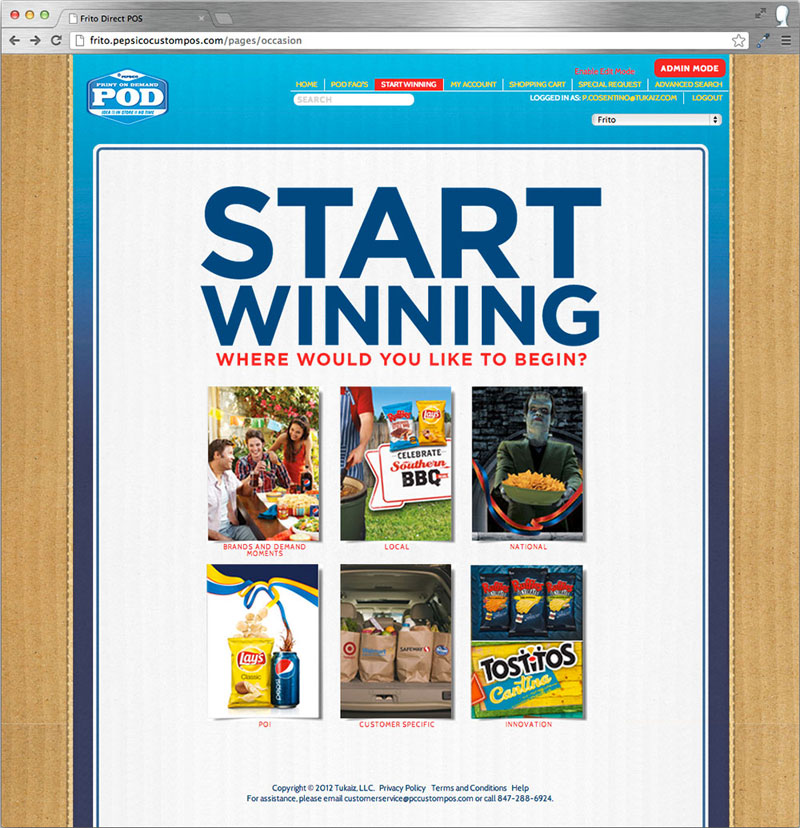
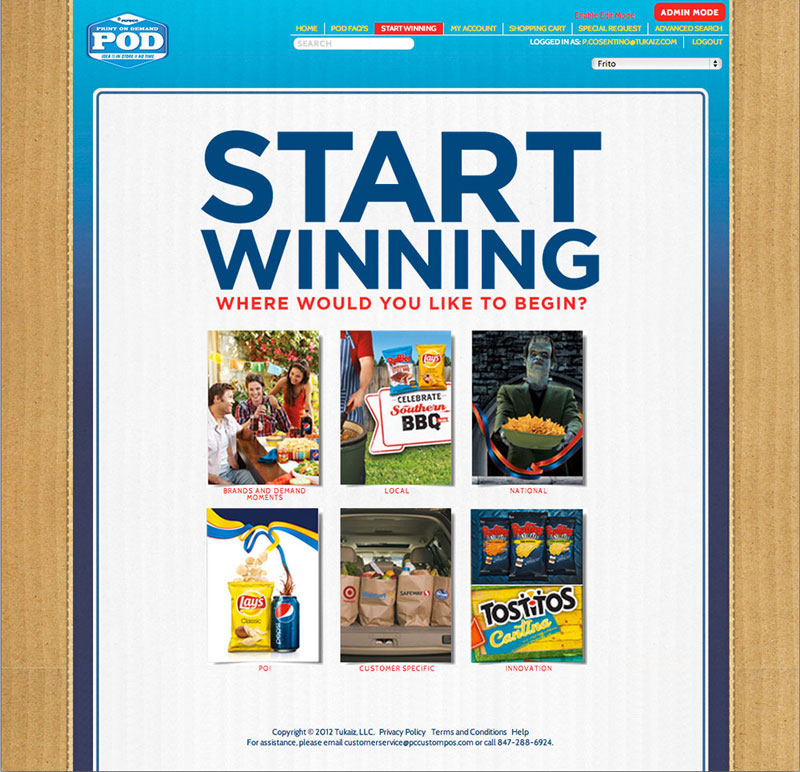
added wireframe section, added becker

diff --git a/app/assets/stylesheets/style.css b/app/assets/stylesheets/style.css
@@ -307,15 +307,15 @@ h6{
 	height:115px;
 	box-shadow:10px 10px 5px #888;
 	display:inline-block;
-	
+	border-radius: 20px;
 }
-.duck, .golf_putt, .uso, .wgn, .frito_speed, .asa, .frito, .tkml1, .touch, .kiss, .rocky, .nye, .tkml2, .tkml2, .tkml3, .tkml4, .xmascard, .bluenred, .whysoblue, .barscene{
+.duck, .golf_putt, .uso, .wgn, .frito_speed, .asa, .frito, .becker, .tkml1, .touch, .kiss, .rocky, .nye, .njoy, .tkml2, .tkml2, .tkml3, .tkml4, .xmascard, .bluenred, .whysoblue, .barscene{
 	display: inline-block;
 	border:none;
 	width:200px;
 	height: 115px;
 	background: url(../assets/work_sprite.jpg) 0 0px;
-	
+	border-radius: 20px;
 }
 .duck{
 	background: url(../assets/work_sprite.jpg) 0 -1955px;
@@ -335,6 +335,9 @@ h6{
 .frito{
 	background: url(../assets/work_sprite.jpg) 0 -115px;
 }
+.becker{
+	background: url(../assets/work_sprite.jpg) 0 -2185px;
+}
 .tkml1{
 	background: url(../assets/work_sprite.jpg) 0 -230px;
 }
@@ -349,6 +352,9 @@ h6{
 }
 .nye{
 	background: url(../assets/work_sprite.jpg) 0 -1495px;
+}
+.njoy{
+	background: url(../assets/work_sprite.jpg) 0 -2300px;
 }
 .tkml2{
 	background: url(../assets/work_sprite.jpg) 0 -690px;
@@ -381,6 +387,7 @@ a.shadow {
 	cursor: pointer;
 	background: no-repeat 0px 0px;
 	overflow: hidden;
+	border-radius: 20px;
 }
 a.shadow div.caption {
 	position: absolute; 
@@ -392,6 +399,7 @@ a.shadow div.caption {
 	background-color: rgba(0,0,0,.65);
 	font-family: "Futura", sans-serif; 
 	font-size: 12px;
+	border-radius: 20px;
 }
 #other {
 	border: none;
